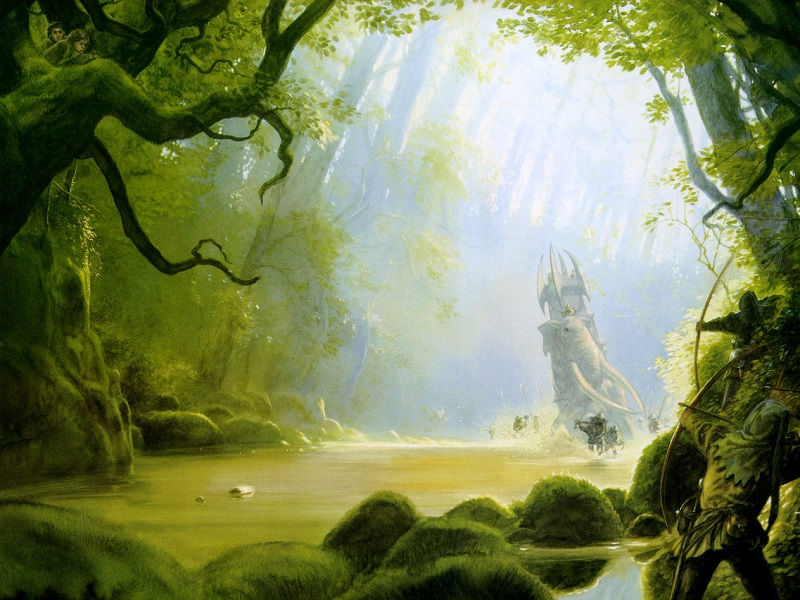
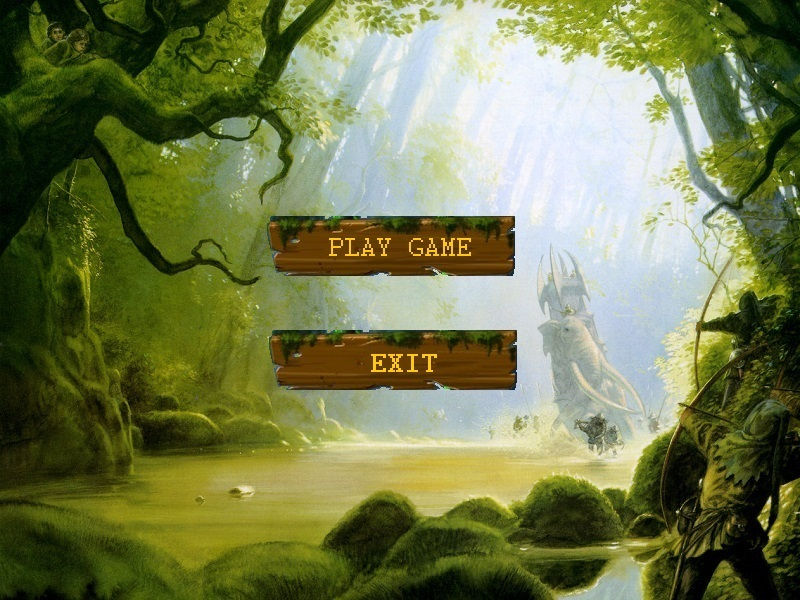
Menu Finished.

Changed region(s): [[0.3125, 0.54, 0.6562, 0.66], [0.3125, 0.36, 0.6562, 0.48]]

diff --git a/src/cMenu.cpp b/src/cMenu.cpp
@@ -3,16 +3,20 @@
 #include "cBaseEntity.h"
 #include "cGame.h"
 #include "cMouse.h"
-
-/*#include "cMouse.h"
-#include <stdio.h>
 #include <iostream>
-#include "cGame.h"*/
+
+static const unsigned int TIME_ARROW_BLINK = 700;
+static const unsigned int TIME_ENABLE_INPUT = 200;
+
+typedef std::chrono::duration<int, std::milli> millisecs_t;
 
 cMenu::cMenu() :
 	_background(nullptr),
 	_greenArrows(nullptr),
-	_selection(cMenu::SELECTION_PLAY)
+	_selection(cMenu::SELECTION_PLAY),
+	_start(),
+	_start2(),
+	_blink(false)
 {
 }
 
@@ -25,17 +29,18 @@ cMenu::~cMenu()
 void cMenu::LoadData()
 {
 	_background = new cBaseEntity;
-	_background->SetTextureID(std::string("mainmenu"));
+	_background->SetTextureID(std::string("main"));
 
 	_greenArrows = new cBaseEntity;
 	_greenArrows->SetTextureID(std::string("green_arrow"));
 	_greenArrows->SetZIndex(1);
-	_greenArrows->SetPosition(0, 0);
+	UpdatePositionArrow();
 }
 
 bool cMenu::Update()
 {
 	bool returnValue = true;
+	static bool InputReaded = false;
 	cInputLayer  &input = cGame::Instance()->Input;
 
 	if (input.KeyDown(DIK_RETURN))
@@ -49,13 +54,35 @@ bool cMenu::Update()
 			cGame::Instance()->SetState(STATE_FINISHED);
 		}
 	}
-	else if (input.KeyDown(DIK_DOWN))
+	else if (input.KeyDown(DIK_DOWN) && !InputReaded)
 	{
-		_selection = static_cast<cMenu::eSelection>((static_cast<char>(_selection)+1) % cMenu::SELECTION_NUMBER);
+		if (_selection < SELECTION_EXIT)
+		{
+			_selection = static_cast<cMenu::eSelection>(static_cast<char>(_selection)+1);
+			UpdatePositionArrow();
+			InputReaded = true;
+		}
 	}
-	else if (input.KeyDown(DIK_UP))
+	else if (input.KeyDown(DIK_UP) && !InputReaded)
 	{
-		_selection = static_cast<cMenu::eSelection>((static_cast<char>(_selection)-1) % cMenu::SELECTION_NUMBER);
+		if (_selection > SELECTION_PLAY)
+		{
+			_selection = static_cast<cMenu::eSelection>(static_cast<char>(_selection)-1);
+			UpdatePositionArrow();
+			InputReaded = true;
+		}
+	}
+
+	if (millisecs_t(std::chrono::duration_cast<millisecs_t>(std::chrono::high_resolution_clock::now() - _start)).count() > (_blink ? TIME_ARROW_BLINK  : TIME_ARROW_BLINK + 200))
+	{
+		ToBlinkArrow();
+		_start = std::chrono::high_resolution_clock::now();
+	}
+
+	if (millisecs_t(std::chrono::duration_cast<millisecs_t>(std::chrono::high_resolution_clock::now() - _start2)).count() > TIME_ENABLE_INPUT)
+	{
+		InputReaded = false;
+		_start2 = std::chrono::high_resolution_clock::now();
 	}
 
 	return returnValue;
@@ -66,4 +93,31 @@ bool cMenu::Render()
 	_background->Render();
 	_greenArrows->Render();
 	return true;
+}
+
+void cMenu::StartBlinkArrow()
+{
+	_blink = true;
+	_start = std::chrono::high_resolution_clock::now();
+	ToBlinkArrow();
+}
+
+void cMenu::ToBlinkArrow()
+{
+	_greenArrows->SetVisible(_blink);
+	_blink = !_blink;
+}
+
+void cMenu::UpdatePositionArrow()
+{
+	if (_selection == SELECTION_PLAY)
+	{
+		_greenArrows->SetPosition(175, 210);
+	}
+	else if (_selection == SELECTION_EXIT)
+	{
+		_greenArrows->SetPosition(175, 325);
+	}
+
+	StartBlinkArrow();
 }

diff --git a/src/cBaseEntity.cpp b/src/cBaseEntity.cpp
@@ -17,6 +17,8 @@ cBaseEntity(x,y,z)
 
 cBaseEntity::cBaseEntity()
 {
+	SetVisible(true);
+
 	SetPosition(0,0);
 	SetZIndex(0);
 
@@ -37,7 +39,7 @@ void cBaseEntity::Update()
 
 void cBaseEntity::Render()
 {
-	if (!m_text_id.empty())
+	if (m_Visible && !m_text_id.empty())
 	{
 		if (IsAnimationEnabled())
 		{
@@ -47,6 +49,16 @@ void cBaseEntity::Render()
 		else
 			cGame::Instance()->Graphics->DrawSprite(m_text_id, m_posx, m_posy, m_posz, &m_rect_texture);
 	}
+}
+
+bool cBaseEntity::IsVisible() const
+{
+	return m_Visible;
+}
+
+void cBaseEntity::SetVisible(bool aVisible)
+{
+	m_Visible = aVisible;
 }
 
 void cBaseEntity::RenderCollisionRect()

diff --git a/src/cGraphicsLayer.cpp b/src/cGraphicsLayer.cpp
@@ -83,11 +83,11 @@ void cGraphicsLayer::LoadData()
 
 	LPDIRECT3DTEXTURE9 buffer = nullptr;
 	
-	//Main menu
+	//Main background
 	D3DXCreateTextureFromFileEx(g_pD3DDevice, "../media/main.jpg", 0, 0, 1, 0, D3DFMT_UNKNOWN,
-		D3DPOOL_DEFAULT, D3DX_FILTER_NONE, D3DX_FILTER_NONE,
-		NULL, NULL, NULL, &buffer);
-	m_texturesmap["mainmenu"] = buffer;
+								D3DPOOL_DEFAULT, D3DX_FILTER_NONE, D3DX_FILTER_NONE,
+								NULL, NULL, NULL, &buffer);
+	m_texturesmap["main"] = buffer;
 
 	//GUI game
 	D3DXCreateTextureFromFileEx(g_pD3DDevice,"../media/game.png",0,0,1,0,D3DFMT_UNKNOWN,

diff --git a/src/cMenu.h b/src/cMenu.h
@@ -3,6 +3,7 @@
 #define __MENU_H__
 
 #include "cBaseEntity.h"
+#include <chrono>
 
 class cMenu
 {
@@ -19,10 +20,18 @@ public:
 	void LoadData();
 	bool Update();
 	bool Render();
+
 private:
+	void UpdatePositionArrow();
+	void StartBlinkArrow();
+	void ToBlinkArrow();
+
 	cBaseEntity* _background;
 	cBaseEntity* _greenArrows;
 	eSelection _selection;
+	std::chrono::high_resolution_clock::time_point _start;
+	std::chrono::high_resolution_clock::time_point _start2;
+	bool _blink;
 };
 
 #endif 

diff --git a/src/cBaseEntity.h b/src/cBaseEntity.h
@@ -14,6 +14,10 @@ public:
 	virtual void Update();
 	virtual void Render();
 
+	//VISIBILITY
+	bool IsVisible() const;
+	void SetVisible(bool aVisible);
+
 	//SPATIAL POSITION
 	void SetPosition(int _x, int _y);
 	void GetPosition(int &_x, int &_y);
@@ -64,6 +68,9 @@ public:
 
 private:
 	
+	//VISIBILITY
+	bool m_Visible;
+
 	//ABSOLUTE POSITION UPPER LEFT
 	int m_posx, m_posy;
 	int m_posz;
